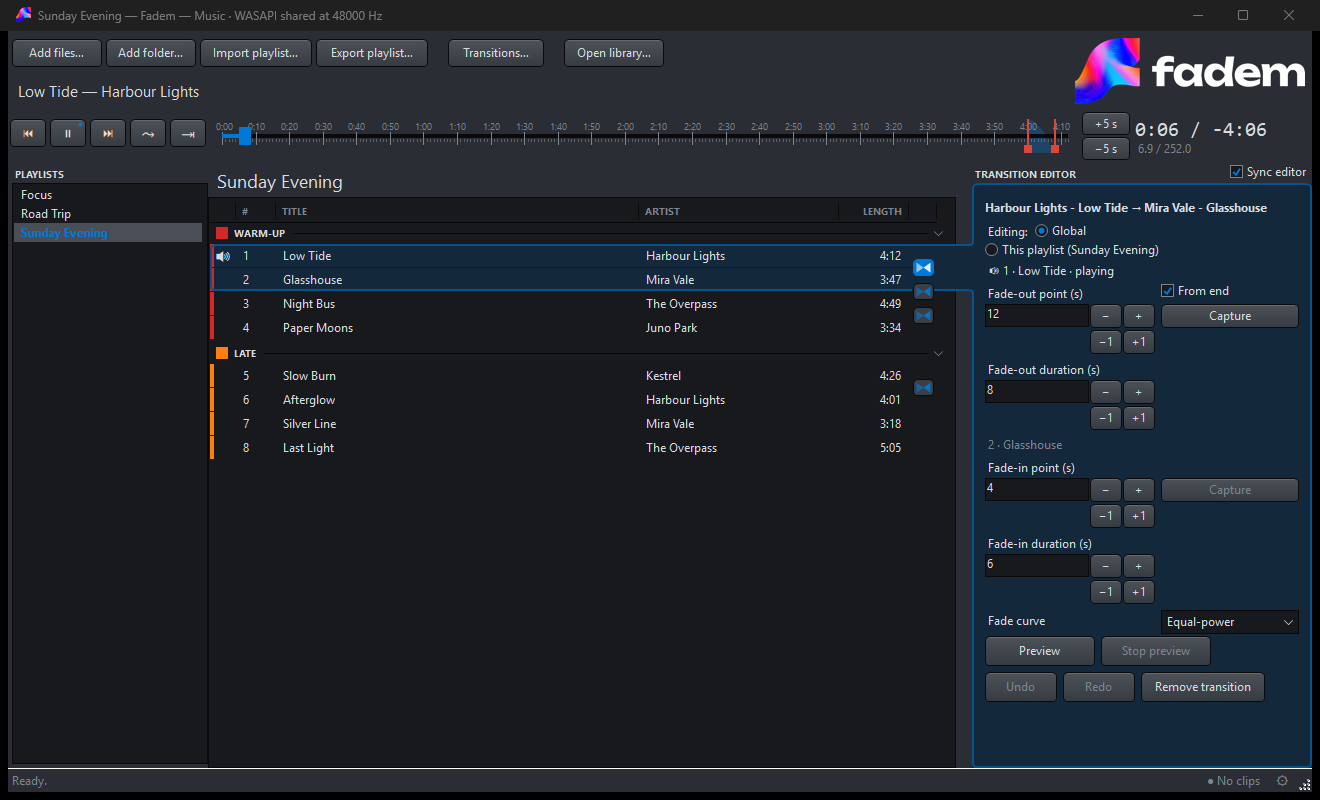
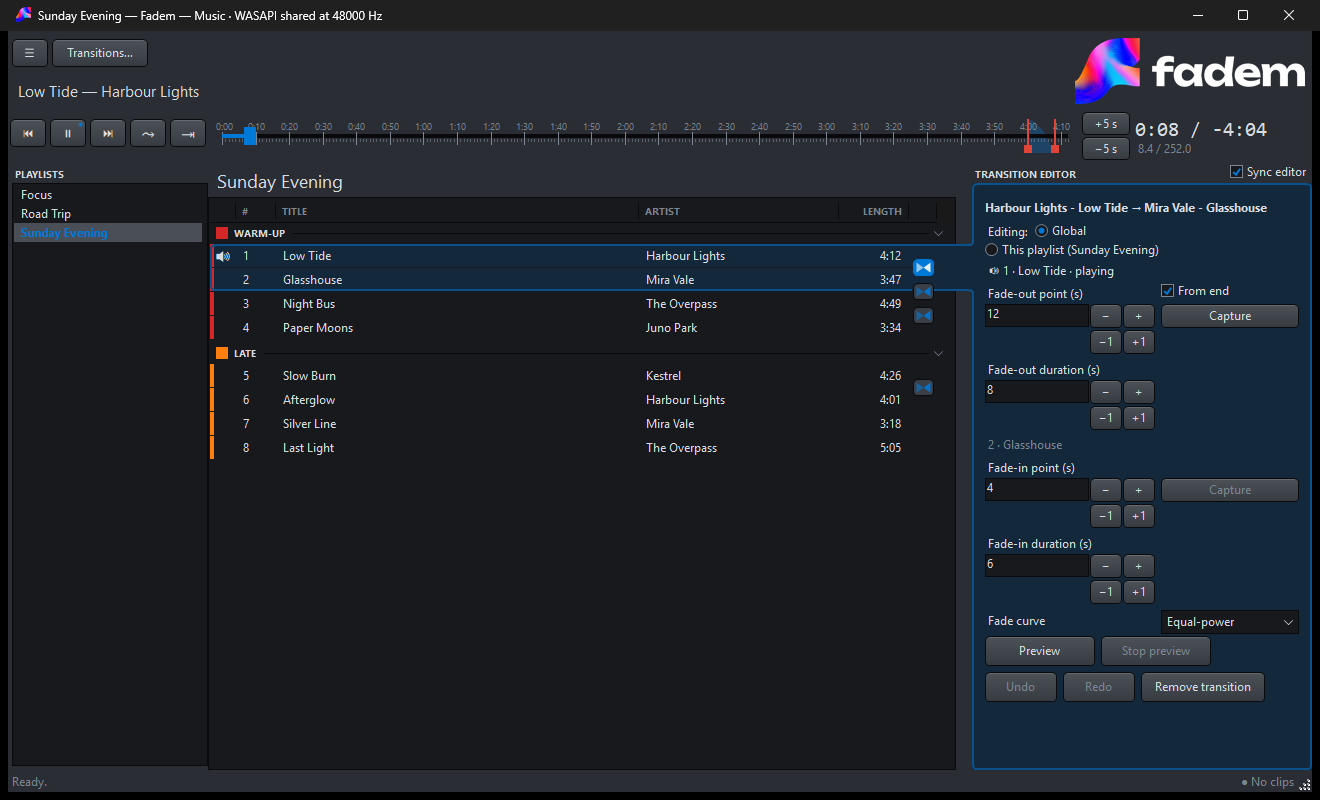
README: a GIF of fades dragged on the seek bar, and the main screenshot retaken
The top of the README now shows fades being dragged on the seek bar: a fade-out's start mark
pulled earlier, its end mark pulled in, the whole fade moved by its shading, then the fade-in
stretched, with the editor's values updating after each. The seek bar bullet now says the
shading moves a whole fade, which the README never said.

The main screenshot moves down beside the Sections bullet and is retaken from the current app,
so it shows the ☰ menu rather than the old row of buttons. Both come from the real app on a
demo library of fictional, silent tracks; the GIF's cursor is drawn onto each frame, since
PrintWindow captures leave it out.

Changed region(s): [[0.0311, 0.0, 0.497, 0.0938], [0.7455, 0.9375, 0.9939, 1.0], [0.0, 0.9688, 0.0311, 1.0]]

diff --git a/README.md b/README.md
@@ -20,9 +20,10 @@ At every boundary between two tracks you choose:
 
 You can set these by ear, simply play the track and capture the moment you want it to fade out.
 
-![Fadem's standalone window: a playlist in two sections, the transition editor open on the first
-boundary and joined to its two rows by a tinted tab, and the seek bar marking that boundary's fades
-in red](docs/images/main-window.png)
+![Fadem's standalone window with a playlist open and the transition editor beside it. On the seek
+bar, the fade-out's start mark is pulled earlier, its end mark pulled in, the whole fade-out moved
+by its shading, then the fade-in stretched, with the editor's values and the status strip updating
+after each drag](docs/images/fade-drag.gif)
 
 Fadem runs in two ways:
 
@@ -123,8 +124,13 @@ Also:
 
 - **Transitions…** lists every transition that includes one track. In the standalone app it's
   the button beside **☰**; in MusicBee it's on the queue's right-click menu.
-- The seek bar marks fades in red. You can drag the marks to change them.
+- The seek bar marks each fade in red, with the fade shaded between its marks. Drag a mark to
+  move one end of the fade, or drag the shading to move the whole fade.
 - **Sections** group consecutive rows under a coloured header. They never change what plays.
+
+![Fadem's standalone window: a playlist in two sections, the transition editor open on the first
+boundary and joined to its two rows by a tinted tab, and the seek bar marking that boundary's fades
+in red](docs/images/main-window.png)
 
 To open the settings in the standalone app, click **☰ → Settings…**. In MusicBee, click **⚙** at
 the right end of Fadem's status strip. Choose the output mode there: WASAPI shared, WASAPI exclusive or WaveOut.
